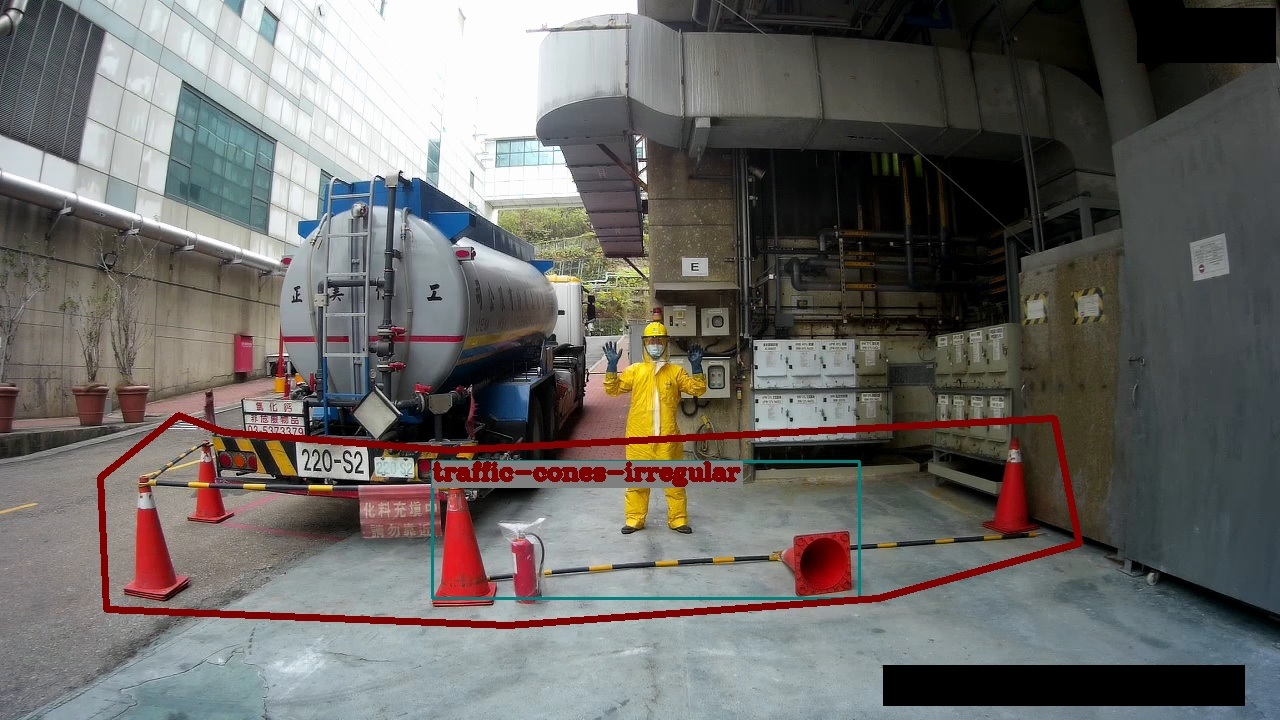
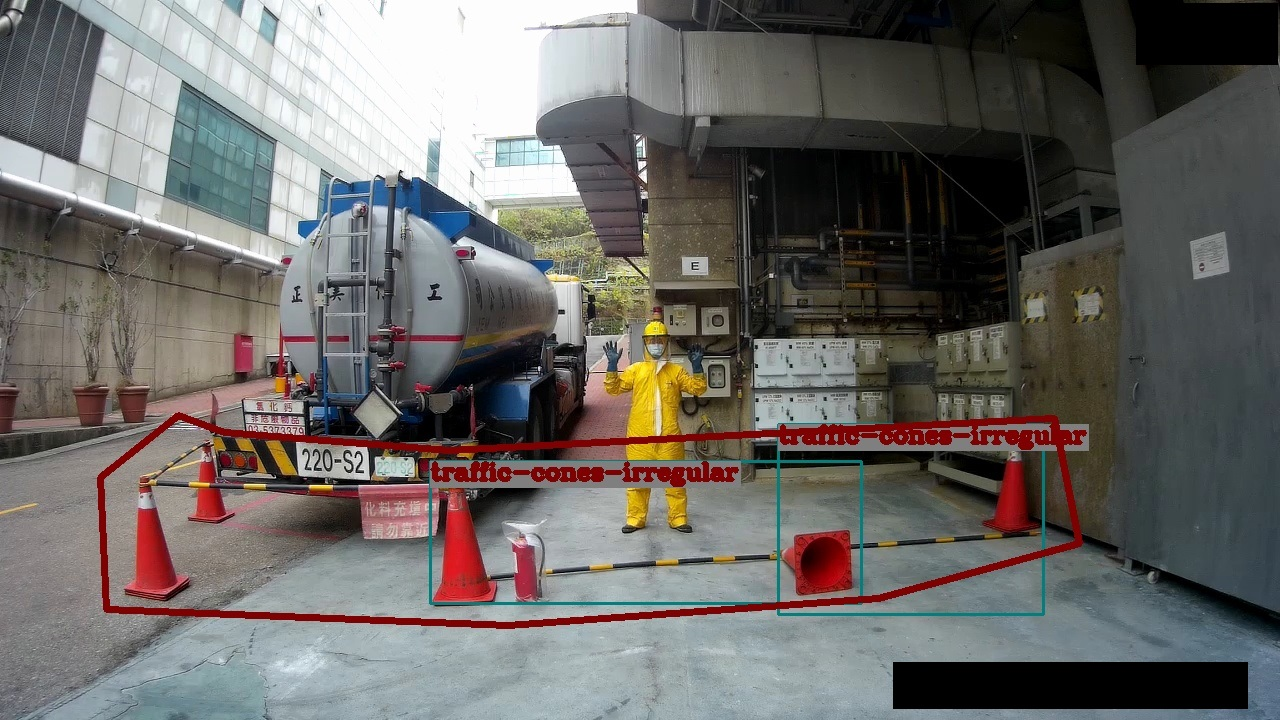
add third scenario readme.md and other modification

diff --git a/src/geofencing/readme.md b/src/geofencing/readme.md
@@ -1,6 +1,6 @@
 # Chemical Tank Car
 
-Security check is one of the most concerned issue in manufacture, especially for the area checking. For instance, most of the area expressly stipulated the standard protection guardrail. This kind of the protection must placed before operating. Checking irregular placement can remind the operator amend the status.
+Factories commonly have restricted areas to keep workers safe from moving automation or robots. In this scenario you will see how a work place is designated as a restricted area to prevent people from entering it. If someone enters the restricted area, the region will turn red.
 
 ## Clone the repository
 
@@ -14,66 +14,22 @@ This might required you to input your adlink account and password. If you do not
 
 ## Algorithm Description
 
-In this element, the algorithm is designed for monitoring the object that can not appear in the pre-defined area. Illustration below is the main logic implemented:
-
-[You can follow the code line indicate through this link](https://viewer.diagrams.net/?tags={}&highlight=0000ff&edit=_blank&layers=1&nav=1#R1Vldc6IwFP01PurwJepjt7XdznZ3O%2BPDbh8DXCE1EBpCxf76TSAIiLV2qivMdEpyuPk6uedyEwfmdZjdMRQHP6kHZGBoXjYwbwaGoVuGMZB%2FmrcpkIk9KwCfYU8ZVcACv4ECNYWm2IOkYcgpJRzHTdClUQQub2CIMbpumi0paY4aI1%2BNqFXAwkUEWmZ%2FsMeDAp0akwr%2FDtgPypH1cn0hKo1Vx0mAPLquQeZ8YF4zSnlRCrNrIJK8kpei3e07b7cTYxDxYxrca75jjN%2FClfH45sY%2FwKPpYmgWvbwikqoFq8nyTckAeIIQVaWMB9SnESLzCv3GaBp5IIfRRK2yeaA0FqAuwGfgfKN2F6WcCijgIVFv20tRq0toylw4MP%2FSJRDzgR%2BwU8uSa6kNoIi6AxoCZxthwIAgjl%2Bbm4%2BUD%2Flbu4pmUVBMf4J1vcX6QqyAt6knRPi5pHgdYA6LGOVkrIXUmgSiJC6cf4kzuRHvM%2FoKjEN2kIPyra0cVynXmKj6uqYDBQU1CZTYyVkb99xXjSN91eqUrxp7WLcJl04nN57BMkftl1QGMsEUFzxeyTGNWx9zgpwR8giOVhzcYOTSUOAxSslIYKKI8PAlxe5qmEgFDJNU%2BLmAHUId8fDgVfxPmCunDh4WcXnIUbQauojJ%2FoG6AbirUSzWaT7opllNRJR8%2BXygyJPhmEaYU5Z%2FFQCVS5ATKA1bzvSB5k4hMaspMXOPxHRjj8bsc2ls1nONWUdqbNopjVn90ZjkYFdivx2O5EAaD6Ai37BRKCUTOUmcG2vUeZZfqW5qz7IvrT29nRY8idS3V%2FqbHqm%2FMr3viAD1SYv6X%2FQSzEOG%2Bd9a%2BUl2NRqr2k2mes4rm7ISCQq2jWSl1kpWq2Z5rWz3H3a5W2n3tEdh1m6H2fukFly3wVTDEQeWFOU1FqGrleyYt0fFXBbQ0EmTj08bp4i%2BRjP6jq090dfeE3117Wzht%2FdnYa2fsizn3Qdd6tNZW5hJLkhEQB7htRCSRF4q5cqkOcCRhzhqZ0SdTITs2cUTofZJ%2FzJf4y9o8djDvt6t075udyUHLTOhMt35VCa0rZw7Ezp6n0%2B%2BzXnTK8bQpmYQUxFzklrPjxKotD5pSn26e2V82NyaaTsOVoxfudt2IV%2FwwPaF0zzDiZxVBJl8LBkKIU9qLpnA7NyOTqYXvh3V25cI88hrK7dLV8oz%2FWykiWr100rhm9UPVOb8Hw%3D%3D)
-
-![Operation Idle Monitoring Flow Chart](../../resources/tank-car.jpg)
+This scenario algorithm is same as [chemical-tank-car](../chemical-tank-car).
 
 ## Compilation
 
-This scenario required to install EVASDK in the device. After installing the EVASDK, follow the next steps to compile this plugin and install into your device:
-
-1. Path to the folder of this scenario. Assume that you clone this source code in Home folder.
-
-   ```
-   $ cd ~/ai-quick-start-suite/src/chemical-tank-car
-   ```
-
-   If you clone in another path, please path to folder "chemical-tank-car".
-
-2. Make the build script executable if needed.
-
-   ```
-   $ sudo chmod +x tankcar-build.sh
-   ```
-
-   This step is just make sure you have the execute permission for this script.
-
-3. Run the build script and then install to your device.
-
-   ```
-   $ ./tankcar-build.sh
-   ```
-
-   After run this build script, the plugin will be copied to EVASDK relative folder then clean the GStreamer cache as well.
-
-4. Test the plugin's information.
-
-   for plugin metadata:
-
-   ```
-   $ gst-inspect-1.0 python
-   ```
-
-   for element metadata:
-
-   ```
-   $ gst-inspect-1.0 geocheck
-   ```
-
-This plugin, geocheck, contains one feature called geocheck. you can use the command to see the detail in terminal after built.
+This scenrio compilation is same as [chemical-tank-car](../chemical-tank-car).
 
 ## Run the plugin
 
-There exists one test optimized models for JNX(NVIDIA NX) in /ai-quick-start-suite/src/chemical-tank-car/NX:
+There exists one test optimized models for JNX(NVIDIA NX) in /ai-quick-start-suite/src/geofencing/NX:
 
 1. yolov4-tiny-608.engine for pose detection
 
-   (if you are using other architecture, you can optimize it through EVASDK user manual by using /ai-quick-start-suite/src/chemical-tank-car/misc/yolov4-tiny-608.onnx)
+   (if you are using other architecture, you can optimize it through EVASDK user manual by using /ai-quick-start-suite/src/geofencing/misc/yolov4-tiny-608.onnx)
 
 
-and other required materials needed in /ai-quick-start-suite/src/chemical-tank-car/NX:
+and other required materials needed in /ai-quick-start-suite/src/geofencing/NX:
 
 1. area.txt 
 
@@ -88,12 +44,12 @@ Test videos are located in [Data](/Data) folder. The videos are used for testing
 For running this plugin, run the command below for testing:
 
 ```
-$ gst-launch-1.0 filesrc location=Data/4-4.MP4 ! decodebin ! nvvideoconvert ! videoconvert ! adrt model=NX/yolov4-tiny-608.engine scale=0.004 mean="0 0 0" rgbconv=true ! adtrans_yolo label=NX/label.txt input-width=608 input-height=608 blob-size="19,38" mask="(3,4,5),(1,2,3)" anchor="(10,14),(23,27),(37,58),(81,82),(135,169),(344,319)" class-num=8 use-sigmoid=True ! geocheck alert-area-def=NX/area.txt object-name=traffic-cones-irregular ! videoconvert ! ximagesink sync=false
+$ gst-launch-1.0 filesrc location=Data/front.mp4 ! decodebin ! nvvideoconvert ! videoconvert ! videoscale ! video/x-raw, width=960, height=540 ! adrt model=NX/yolov4-tiny-608.engine scale=0.004 mean="0 0 0" rgbconv=true ! adtrans_yolo label=NX/label.txt input-width=608 input-height=608 blob-size="19,38" mask="(3,4,5),(1,2,3)" anchor="(10,14),(23,27),(37,58),(81,82),(135,169),(344,319)" class-num=1 use-sigmoid=True ! geocheck alert-area-def=NX/area.txt object-name=foot ! videoconvert ! ximagesink sync=false
 ```
 
 You will see the following result displayed:
 
-![displayed screen](../../resources/tankcar-event.jpg)
+![displayed screen](../../resources/geofencing-event.jpg)
 
-Illustrated red area denotes the pre-defied ara provide by user. The object "traffic-cones-irregular" is the target that can not occur in the area. This object name can be set int the property, object-name, of the plugin. This scenario can widly extended to any situation that illegal object is trained in the model and check whether it is appear in the area or not.
+Illustrated red area denotes the pre-defied ara provide by user. The person's foot is the target that can not occur in the area. This object name can be set int the property, object-name, of the plugin. This scenario can widely extended to any situation that illegal object is trained in the model and check whether it is appear in the area or not.
 

diff --git a/readme.md b/readme.md
@@ -10,4 +10,9 @@ In this AI quick start suite, contains:
 
 1. [Operation Idle Monitoring, OIM](src/operation-idle-monitoring);
 2. [Chemical Tank Car](src/chemical-tank-car);
+3. [Geofencing](src/geofencing)
+
+## Note
+
+If your EVASDK version is less than 3.8.1, please update the libadtrans.so for successfully run the yolov4 tiny 608 we offered in default. Replace the original libadtrans.so in /opt/adlink/eva/plugins with the file we offered in resources/3.8.1-libadtrans/your OS architecture.
 
